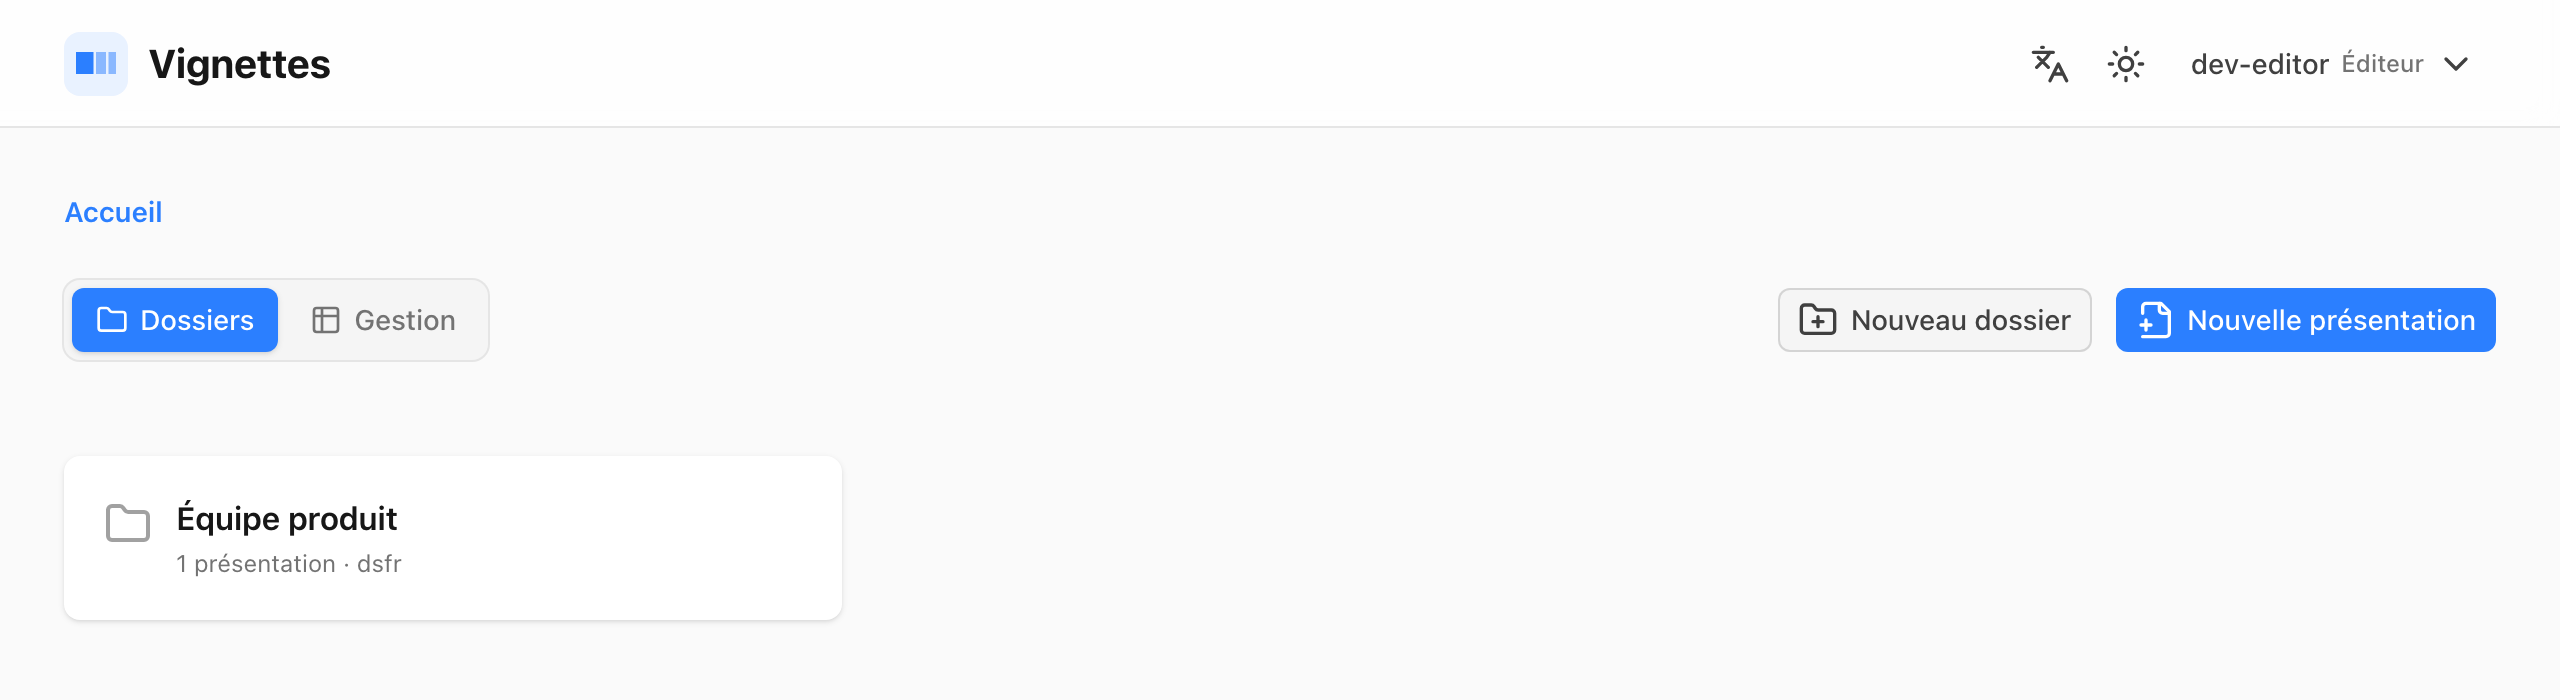
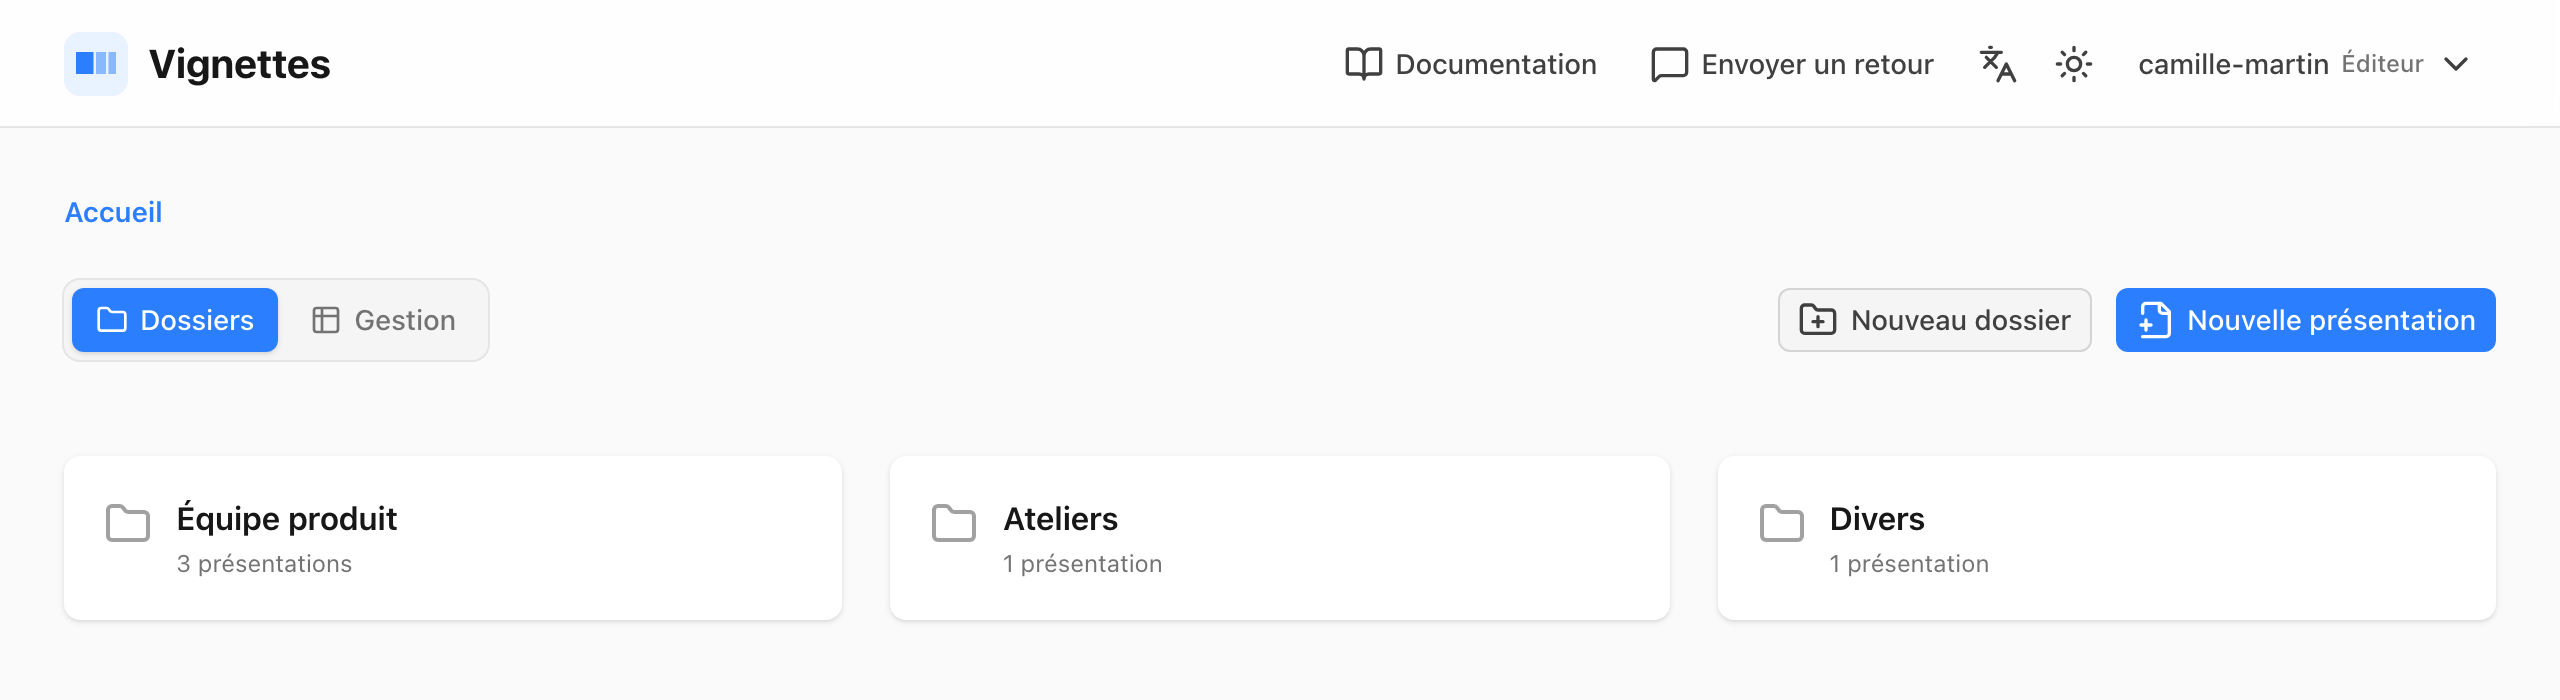
docs(site): show the studio home with numbered markers and explain markdown to newcomers

diff --git a/site/app/components/content/AnnotatedImage.vue b/site/app/components/content/AnnotatedImage.vue
@@ -1,0 +1,67 @@
+<script setup lang="ts">
+// `::annotated-image` shows an image with numbered markers. A marker is placed
+// by `x` and `y`, in percent of the image width and height, and keeps its size
+// in proportion to the image. `width` and `height` give the image ratio, so the
+// markers keep their place before the image loads. The markers are decorative:
+// the numbered list that follows the image in the page describes each of them,
+// and the `alt` text points to that list.
+defineProps<{
+  src: string
+  alt: string
+  width: number
+  height: number
+  markers: { x: number, y: number }[]
+}>()
+</script>
+
+<template>
+  <div
+    class="annotated-image"
+    :style="{ aspectRatio: `${width} / ${height}` }"
+  >
+    <ProseImg
+      :src="src"
+      :alt="alt"
+    />
+    <span
+      v-for="(marker, index) in markers"
+      :key="index"
+      class="annotated-image-marker"
+      :style="{ left: `${marker.x}%`, top: `${marker.y}%` }"
+      aria-hidden="true"
+    >{{ index + 1 }}</span>
+  </div>
+</template>
+
+<style scoped>
+.annotated-image {
+  position: relative;
+  margin-block: 1.5rem;
+  container-type: inline-size;
+}
+
+.annotated-image :deep(img) {
+  display: block;
+  width: 100%;
+  height: 100%;
+  margin: 0;
+}
+
+.annotated-image-marker {
+  position: absolute;
+  display: grid;
+  place-items: center;
+  width: 3cqi;
+  height: 3cqi;
+  translate: -50% -50%;
+  border-radius: 9999px;
+  background: var(--ui-primary);
+  color: var(--ui-bg);
+  box-shadow: 0 0 0 0.2cqi white;
+  font-size: 1.9cqi;
+  font-weight: 700;
+  line-height: 1;
+  font-variant-numeric: tabular-nums;
+  pointer-events: none;
+}
+</style>

diff --git a/site/content/1.demarrer/3.le-markdown.md b/site/content/1.demarrer/3.le-markdown.md
@@ -1,0 +1,75 @@
+---
+title: Le Markdown
+description: Écrire un titre, un paragraphe, une liste, du gras, un lien et une image en Markdown, le format du texte d'une présentation.
+---
+
+Une présentation Vignettes est un texte écrit en Markdown. Le Markdown est du texte ordinaire, avec quelques signes qui donnent la mise en forme : pour un titre, vous écrivez un `#` en début de ligne ; pour du gras, deux `*` de chaque côté du mot. Vous écrivez ces signes au clavier, et le studio affiche le résultat dans l'aperçu.
+
+Chaque exemple de cette page affiche une diapositive au-dessus de son texte. Le texte d'un exemple est celui que vous écrivez dans l'éditeur du studio.
+
+## Un titre et un paragraphe
+
+Une ligne qui commence par `###` suivi d'une espace est le titre de la diapositive. Les lignes qui suivent forment un paragraphe. Une ligne vide sépare deux paragraphes.
+
+::deck-example
+```mdc
+### Ce qui est en ligne
+
+La page d'accueil est en ligne depuis lundi.
+
+Le formulaire de contact suit la semaine prochaine.
+```
+::
+
+Le nombre de `#` donne le niveau du titre. Dans une présentation, vous écrivez avec `#` le titre de la première diapositive, avec `##` celui d'une diapositive de section, quand elle contient son titre et au plus une ligne courte, et avec `###` celui d'une diapositive de contenu. La page [La syntaxe](/ecrire/syntaxe) décrit ces niveaux.
+
+## Une liste
+
+Une ligne qui commence par `-` et une espace est un élément d'une liste à puces. Une ligne qui commence par un nombre suivi d'un point, `1.`, est un élément d'une liste numérotée.
+
+::deck-example
+```mdc
+### Les étapes
+
+- La page d'accueil
+- Le formulaire de contact
+
+1. Recueillir les besoins
+2. Tester avec cinq usagers
+3. Mettre en ligne
+```
+::
+
+## Du gras, de l'italique et un lien
+
+Pour du gras, vous écrivez deux `*` de chaque côté du mot, et pour de l'italique, un seul `*`. Pour un lien, vous écrivez le texte du lien entre crochets, puis l'adresse entre parenthèses.
+
+::deck-example
+```mdc
+### Le suivi de la demande
+
+La demande est **acceptée** depuis *mardi*.
+
+Le détail est sur [le site du service](https://www.service-public.fr).
+```
+::
+
+## Une image
+
+Pour une image, vous écrivez un lien précédé d'un `!`. Le texte entre crochets décrit l'image pour les personnes qui ne la voient pas ; l'adresse entre parenthèses est celle du fichier.
+
+::deck-example
+```mdc
+### Le catalogue
+
+![Le catalogue du studio, avec le dossier Équipe produit](/images/studio/catalogue.png)
+```
+::
+
+L'adresse de cet exemple est celle d'une image du site de documentation. Dans le studio, pour une image de votre ordinateur, choisissez « Téléverser une image » dans le menu « Insérer » : le studio téléverse l'image et insère un bloc `Image` avec son adresse. La page [Placer une image à côté du texte](/ecrire/image-a-cote-du-texte) décrit ce téléversement.
+
+## Pour continuer
+
+Dans l'éditeur du studio, la barre d'outils au-dessus du texte insère ces signes pour vous : sélectionnez un mot, puis cliquez sur le bouton du gras, de la liste ou du lien.
+
+La page [La syntaxe](/ecrire/syntaxe) décrit ce que Vignettes ajoute au Markdown : l'en-tête de la présentation, le découpage en diapositives et les annotations.

diff --git a/site/content/1.demarrer/2.premiere-presentation.md b/site/content/1.demarrer/2.premiere-presentation.md
@@ -23,7 +23,7 @@ Le studio affiche le catalogue des présentations, rangées par dossier. Votre n
 2. Dans « Point de départ », gardez « Présentation vide ».
 3. Dans « Titre », écrivez `Bilan du mois`.
 4. Le studio remplit le champ « Adresse » depuis le titre : `bilan-du-mois` ici. L'adresse de la présentation est alors `/slides/bilan-du-mois`.
-5. Laissez « Dossier » et « Thème » sur leurs valeurs.
+5. Laissez « Dossier » et « Thème » sur leurs valeurs. Pour ranger la présentation dans un nouveau dossier, créez d'abord ce dossier : la page [Organiser le catalogue](/studio/organiser-le-catalogue#les-dossiers) décrit sa création.
 6. Cliquez sur « Créer et modifier ».
 
 ![La fenêtre « Nouvelle présentation », remplie](/images/studio/nouvelle-presentation.png)
@@ -51,6 +51,8 @@ Les boutons de la barre au-dessus du texte insèrent la syntaxe à l'endroit du 
 - Au bout de la barre, le bouton « Afficher les fragments pas à pas » affiche dans l'aperçu les fragments de la diapositive jusqu'à celui où se trouve le curseur. Le bouton en forme de cible fait suivre le curseur par l'aperçu.
 
 ## Écrire trois diapositives
+
+Le texte d'une présentation est écrit en Markdown. Si vous découvrez ce format, la page [Le Markdown](/demarrer/le-markdown) montre ses signes sur de petits exemples.
 
 Les lignes de la première ligne `---` à la seconde forment l'en-tête de la présentation : son titre et son thème. Gardez-les. Sélectionnez tout le texte à partir de la ligne `# Bilan du mois` jusqu'à la fin, puis remplacez-le par le texte ci-dessous. Le rendu attendu est affiché au-dessus du texte : cliquez dans l'aperçu, puis utilisez les flèches du clavier, ou touchez la flèche de la diapositive, pour passer d'une diapositive à l'autre. Sur un téléphone, le bouton « Agrandir », sous le rendu, l'affiche sur tout l'écran.
 
@@ -161,6 +163,7 @@ Dans le catalogue, le bouton à trois points de la carte d'une présentation pro
 
 ## Pour continuer
 
+- [Le Markdown](/demarrer/le-markdown) montre les titres, les listes, le gras, les liens et les images, pour une personne qui découvre le Markdown.
 - [La syntaxe](/ecrire/syntaxe) décrit l'en-tête, le découpage des diapositives et les annotations.
 - [Les composants](/ecrire/composants) montre les blocs disponibles, comme `Columns` et `Notes`.
 - Dans l'éditeur, le bouton « Aide », en bas à droite, liste les composants et les insère dans le texte.

diff --git a/site/content/3.studio/4.organiser-le-catalogue.md b/site/content/3.studio/4.organiser-le-catalogue.md
@@ -17,6 +17,8 @@ Pour créer un dossier :
 4. Choisissez une icône et une couleur, si vous le souhaitez.
 5. Cliquez sur « Créer le dossier ».
 
+Le studio ouvre le nouveau dossier. Son bouton « Nouvelle présentation » crée une présentation rangée dans ce dossier.
+
 Dans un dossier, le menu à trois points propose « Modifier… », qui change le nom, l'icône, la couleur et l'adresse. Après un changement d'adresse, envoyez la nouvelle adresse aux personnes qui ont l'ancienne. « Gérer l'accès… » donne un accès à tout le dossier, comme le décrit [Visibilité et partage](/studio/visibilite-et-partage#les-accès-individuels).
 
 Pour changer le dossier d'une présentation, ouvrez « Réglages et partage » dans l'éditeur, onglet « Général », et choisissez le dossier dans « Dossier ».
